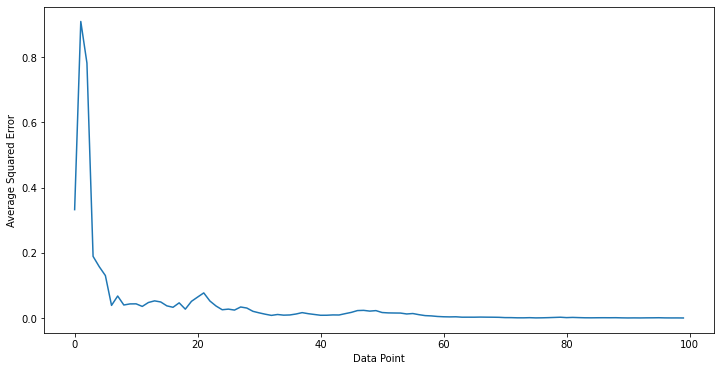
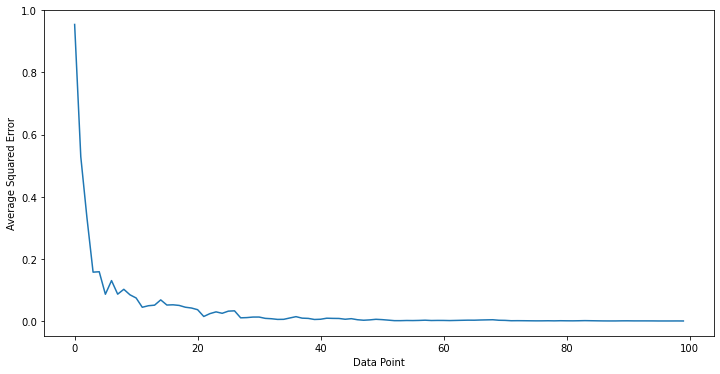
Fixed update of the sequence mean

diff --git a/03_sequential_estimation/template.py b/03_sequential_estimation/template.py
@@ -15,7 +15,7 @@ def gen_data(n: int, k: int, mean: np.ndarray, var: float) -> np.ndarray:
 def update_sequence_mean(mu: np.ndarray, x: np.ndarray, n: int) -> np.ndarray:
     '''Performs the mean sequence estimation update
     '''
-    return ((n * mu + x) / (n + 1))
+    return (mu + (x-mu)/n)
 
 
 def _plot_sequence_estimate():
@@ -47,7 +47,7 @@ def _plot_mean_square_error():
     errors = []
     current_mean = initial_estimates
     for i in range(dataX.shape[0]):
-        current_mean = update_sequence_mean(current_mean, dataX[i], i)
+        current_mean = update_sequence_mean(current_mean, dataX[i], i+1)
         estimates.append(current_mean)
         
         errors.append(np.mean(_square_error(current_mean, actual_mean)))
@@ -80,7 +80,7 @@ if __name__ == '__main__':
     mean = np.mean(X, 0)
     #np.random.seed(1234)
     new_x = gen_data(1, 3, np.array([0, 0, 0]), 1)
-    print(update_sequence_mean(mean, new_x, X.shape[0]))
+    print(update_sequence_mean(mean, new_x, X.shape[0]+1))
     
     print("\n[+]Part 1.5: Plotting...")
     np.random.seed(1234)
@@ -90,7 +90,7 @@ if __name__ == '__main__':
     estimates = []
     current_mean = initial_estimates
     for i in range(data.shape[0]):
-        current_mean = update_sequence_mean(initial_estimates, data[i], i)
+        current_mean = update_sequence_mean(initial_estimates, data[i], i+1)
         estimates.append(current_mean)
         
     estimates = np.array(estimates)
